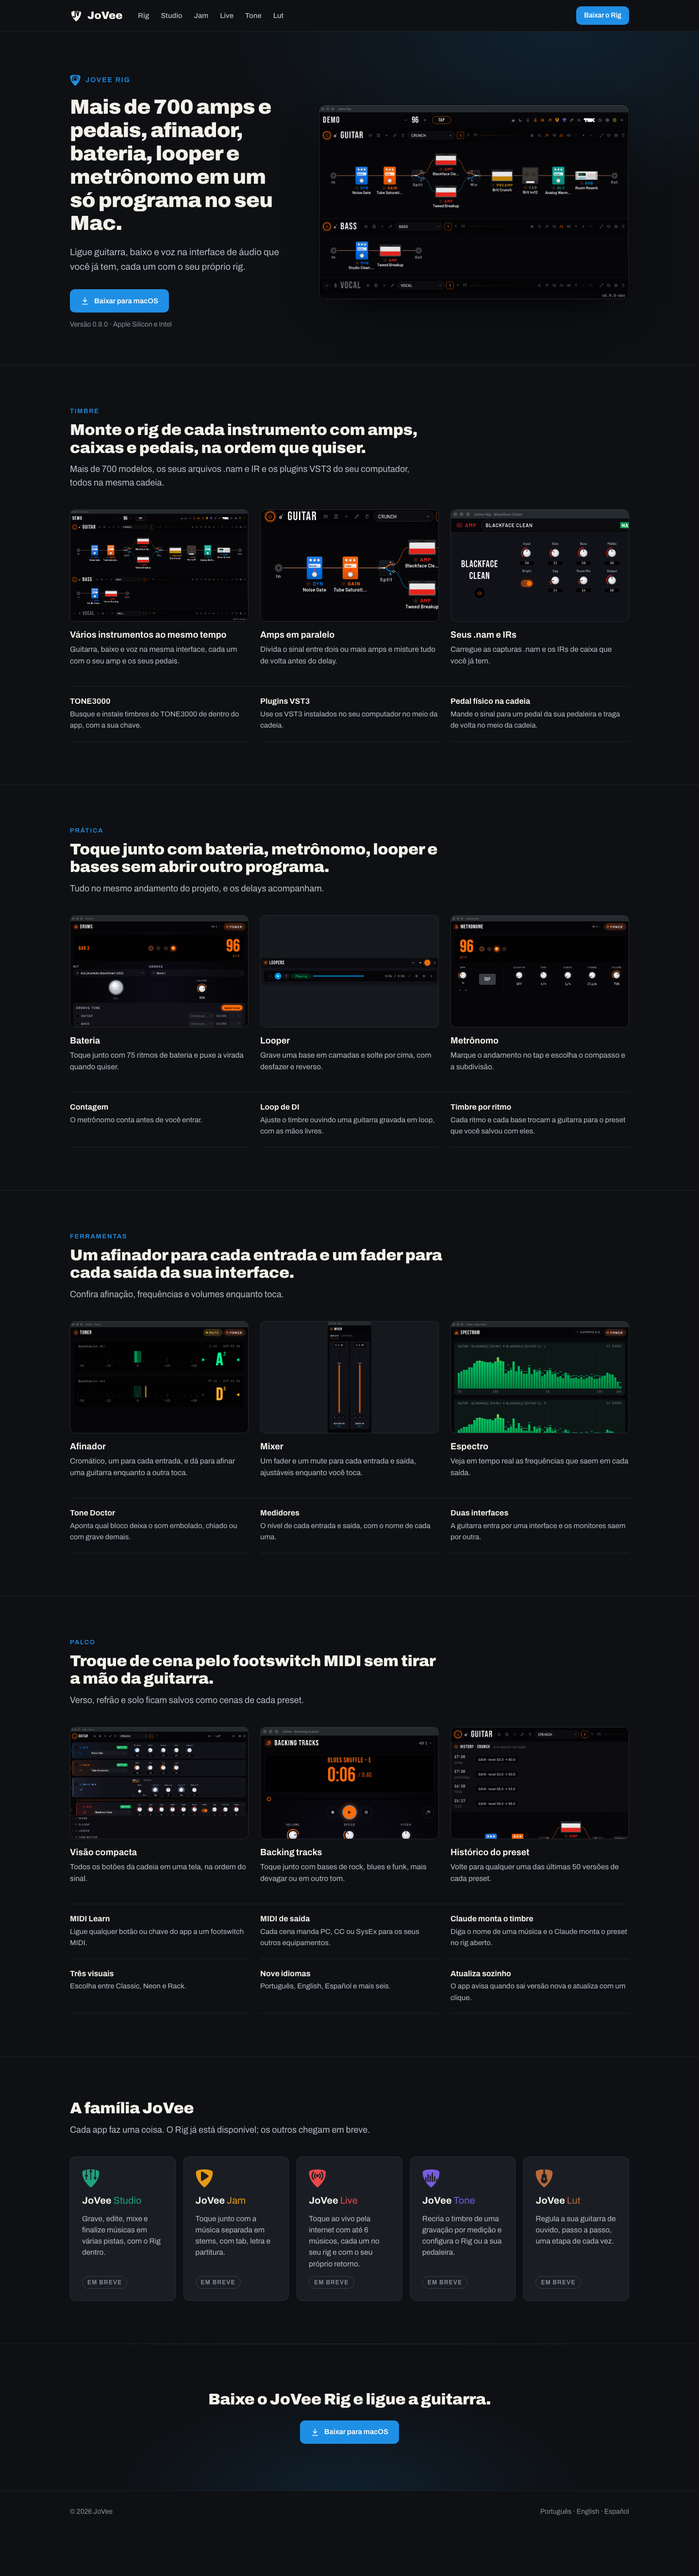
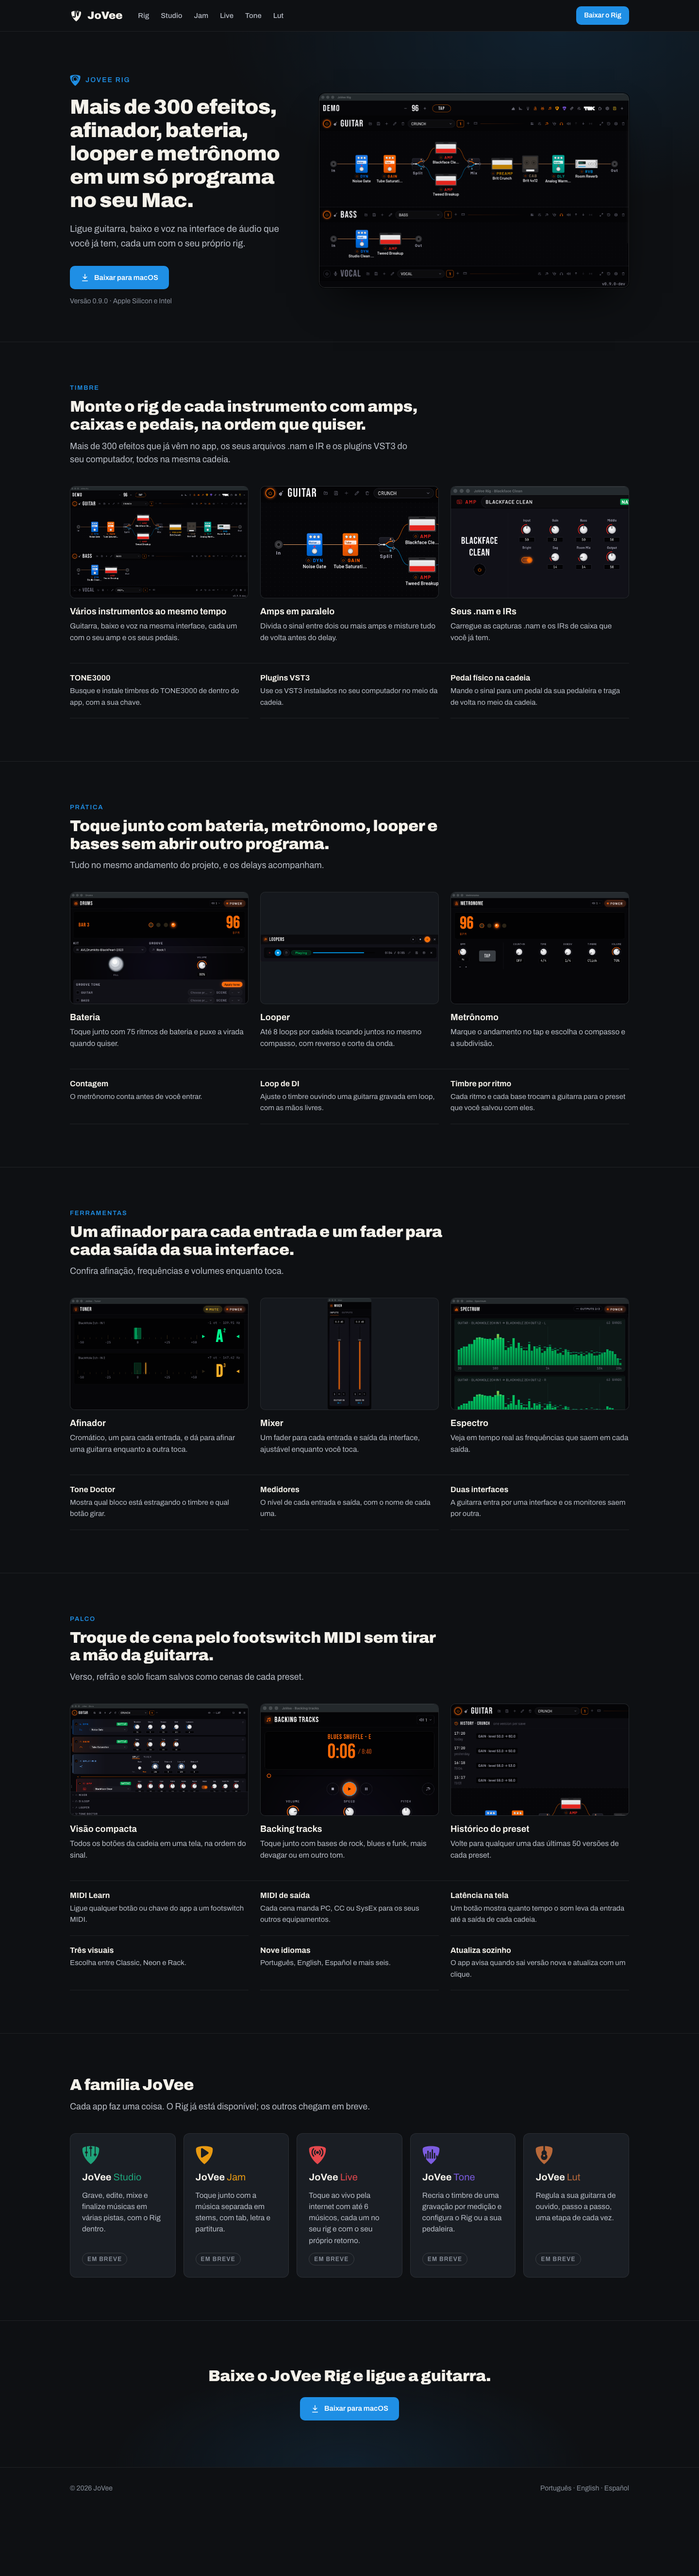
mockup: drop claims the Rig does not back, count only what ships

diff --git a/mockups/home.html b/mockups/home.html
@@ -85,7 +85,7 @@ h1{margin:20px 0 20px;font:800 42px/1.14 var(--f);letter-spacing:-.02em}
 <section class="hero" id="rig"><div class="wrap">
   <div>
     <div class="eyebrow"><img src="assets/jovee-rig-symbol.svg" alt="">JoVee Rig</div>
-    <h1>Mais de 700 amps e pedais, afinador, bateria, looper e metrônomo em um só programa no seu Mac.</h1>
+    <h1>Mais de 300 efeitos, afinador, bateria, looper e metrônomo em um só programa no seu Mac.</h1>
     <p class="lede">Ligue guitarra, baixo e voz na interface de áudio que você já tem, cada um com o seu próprio rig.</p>
     <a class="btn btn-rig" id="baixar" href="#"><svg viewBox="0 0 24 24" fill="none" stroke="currentColor" stroke-width="2" stroke-linecap="round" stroke-linejoin="round"><path d="M12 3v12M7 10l5 5 5-5M5 21h14"/></svg>Baixar para macOS</a>
     <div class="meta">Versão 0.9.0 · Apple Silicon e Intel</div>
@@ -96,7 +96,7 @@ h1{margin:20px 0 20px;font:800 42px/1.14 var(--f);letter-spacing:-.02em}
 <section class="sec" id="timbre"><div class="wrap">
   <div class="kick">Timbre</div>
   <h2 class="h2">Monte o rig de cada instrumento com amps, caixas e pedais, na ordem que quiser.</h2>
-  <p class="sub">Mais de 700 modelos, os seus arquivos .nam e IR e os plugins VST3 do seu computador, todos na mesma cadeia.</p>
+  <p class="sub">Mais de 300 efeitos que já vêm no app, os seus arquivos .nam e IR e os plugins VST3 do seu computador, todos na mesma cadeia.</p>
   <div class="feats">
     <div class="feat"><figure><img src="shots/chains.png" alt=""></figure><b>Vários instrumentos ao mesmo tempo</b><p>Guitarra, baixo e voz na mesma interface, cada um com o seu amp e os seus pedais.</p></div>
     <div class="feat"><figure><img src="shots/split.png" alt=""></figure><b>Amps em paralelo</b><p>Divida o sinal entre dois ou mais amps e misture tudo de volta antes do delay.</p></div>
@@ -115,7 +115,7 @@ h1{margin:20px 0 20px;font:800 42px/1.14 var(--f);letter-spacing:-.02em}
   <p class="sub">Tudo no mesmo andamento do projeto, e os delays acompanham.</p>
   <div class="feats">
     <div class="feat"><figure><img src="shots/drums.png" alt=""></figure><b>Bateria</b><p>Toque junto com 75 ritmos de bateria e puxe a virada quando quiser.</p></div>
-    <div class="feat"><figure><img class="fit" src="shots/looper.png" alt=""></figure><b>Looper</b><p>Grave uma base em camadas e solte por cima, com desfazer e reverso.</p></div>
+    <div class="feat"><figure><img class="fit" src="shots/looper.png" alt=""></figure><b>Looper</b><p>Até 8 loops por cadeia tocando juntos no mesmo compasso, com reverso e corte da onda.</p></div>
     <div class="feat"><figure><img src="shots/metronome.png" alt=""></figure><b>Metrônomo</b><p>Marque o andamento no tap e escolha o compasso e a subdivisão.</p></div>
   </div>
   <div class="list">
@@ -131,11 +131,11 @@ h1{margin:20px 0 20px;font:800 42px/1.14 var(--f);letter-spacing:-.02em}
   <p class="sub">Confira afinação, frequências e volumes enquanto toca.</p>
   <div class="feats">
     <div class="feat"><figure><img src="shots/tuner.png" alt=""></figure><b>Afinador</b><p>Cromático, um para cada entrada, e dá para afinar uma guitarra enquanto a outra toca.</p></div>
-    <div class="feat"><figure><img class="fit" src="shots/mixer.png" alt=""></figure><b>Mixer</b><p>Um fader e um mute para cada entrada e saída, ajustáveis enquanto você toca.</p></div>
+    <div class="feat"><figure><img class="fit" src="shots/mixer.png" alt=""></figure><b>Mixer</b><p>Um fader para cada entrada e saída da interface, ajustável enquanto você toca.</p></div>
     <div class="feat"><figure><img src="shots/spectrum.png" alt=""></figure><b>Espectro</b><p>Veja em tempo real as frequências que saem em cada saída.</p></div>
   </div>
   <div class="list">
-    <div><b>Tone Doctor</b><p>Aponta qual bloco deixa o som embolado, chiado ou com grave demais.</p></div>
+    <div><b>Tone Doctor</b><p>Mostra qual bloco está estragando o timbre e qual botão girar.</p></div>
     <div><b>Medidores</b><p>O nível de cada entrada e saída, com o nome de cada uma.</p></div>
     <div><b>Duas interfaces</b><p>A guitarra entra por uma interface e os monitores saem por outra.</p></div>
   </div>
@@ -153,7 +153,7 @@ h1{margin:20px 0 20px;font:800 42px/1.14 var(--f);letter-spacing:-.02em}
   <div class="list">
     <div><b>MIDI Learn</b><p>Ligue qualquer botão ou chave do app a um footswitch MIDI.</p></div>
     <div><b>MIDI de saída</b><p>Cada cena manda PC, CC ou SysEx para os seus outros equipamentos.</p></div>
-    <div><b>Claude monta o timbre</b><p>Diga o nome de uma música e o Claude monta o preset no rig aberto.</p></div>
+    <div><b>Latência na tela</b><p>Um botão mostra quanto tempo o som leva da entrada até a saída de cada cadeia.</p></div>
     <div><b>Três visuais</b><p>Escolha entre Classic, Neon e Rack.</p></div>
     <div><b>Nove idiomas</b><p>Português, English, Español e mais seis.</p></div>
     <div><b>Atualiza sozinho</b><p>O app avisa quando sai versão nova e atualiza com um clique.</p></div>
